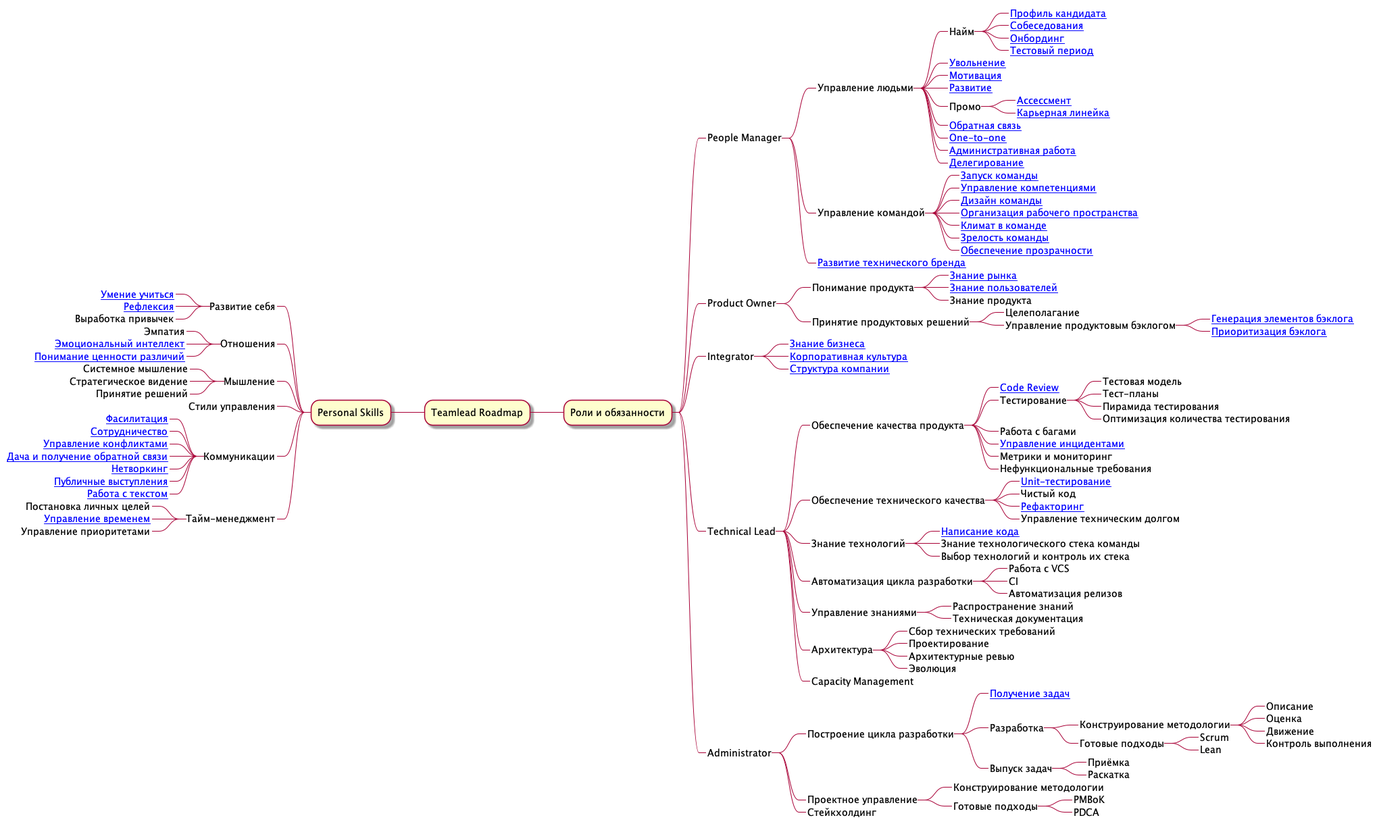
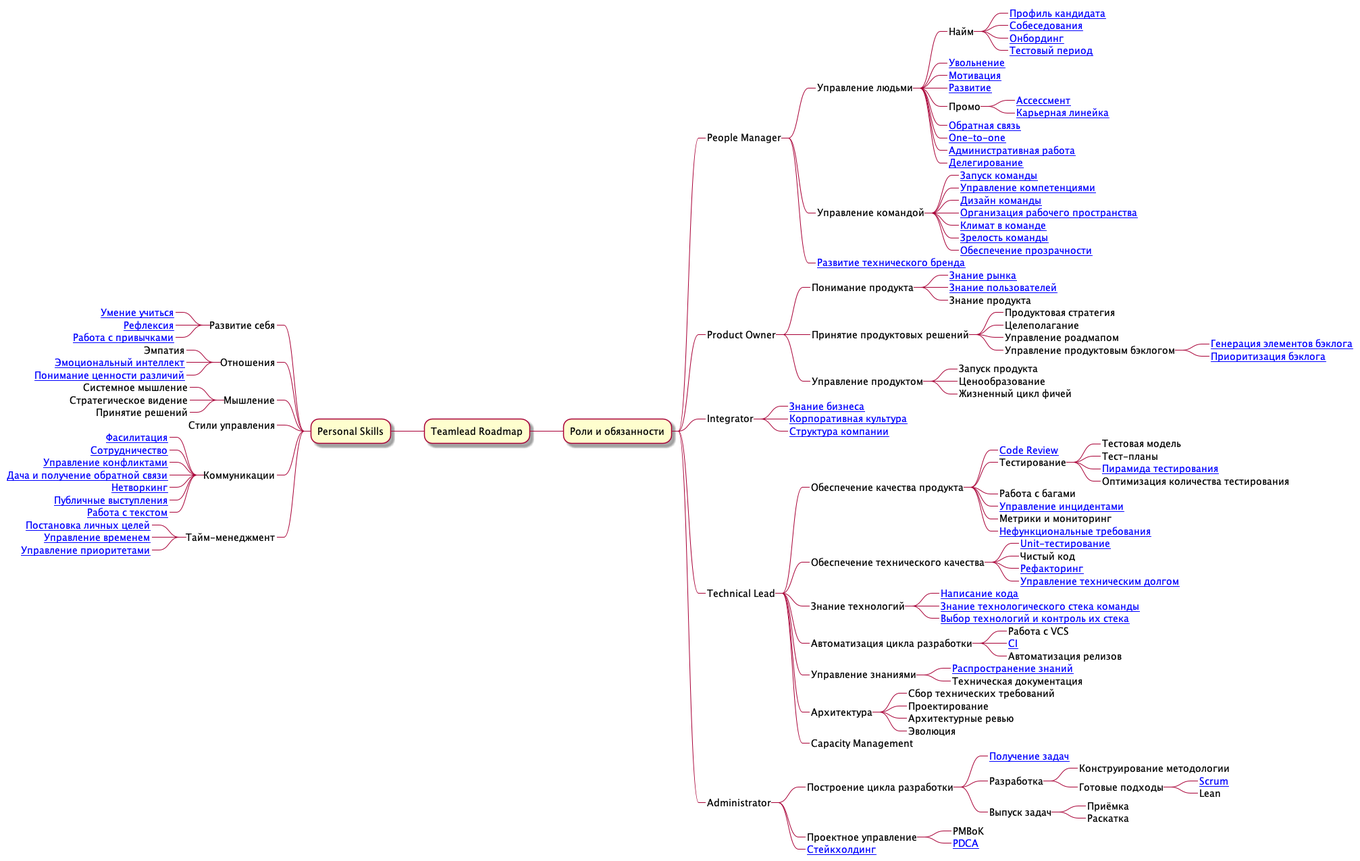
upd

Changed region(s): [[0.0, 0.0, 0.9851, 0.9967], [0.4926, 0.1557, 0.5849, 0.1869]]

diff --git a/roadmap.mm b/roadmap.mm
@@ -1,5 +1,1 @@
-<<<<<<< HEAD
-<map version="1.0.1"><node CREATED="1578237054.588795" MODIFIED="1578237054.588795" STYLE="bubble" TEXT="Teamlead Roadmap"><node CREATED="1578237054.588795" MODIFIED="1578237054.588795" POSITION="left" STYLE="fork" TEXT="Развитие себя"><node CREATED="1578237054.588795" LINK="https://github.com/tlbootcamp/tlroadmap/blob/master/skills/self-improvement/learning.md" MODIFIED="1578237054.588795" STYLE="fork" TEXT="Умение учиться" /><node CREATED="1578237054.588795" LINK="https://github.com/tlbootcamp/tlroadmap/blob/master/skills/self-improvement/reflection.md" MODIFIED="1578237054.588795" STYLE="fork" TEXT="Рефлексия" /><node CREATED="1578237054.588795" MODIFIED="1578237054.588795" STYLE="fork" TEXT="Выработка привычек" /></node><node CREATED="1578237054.588795" MODIFIED="1578237054.588795" POSITION="left" STYLE="fork" TEXT="Отношения"><node CREATED="1578237054.588795" MODIFIED="1578237054.588795" STYLE="fork" TEXT="Эмпатия" /><node CREATED="1578237054.588795" LINK="https://github.com/tlbootcamp/tlroadmap/blob/master/skills/self-improvement/emotional-intelligence.md" MODIFIED="1578237054.588795" STYLE="fork" TEXT="Эмоциональный интеллект" /><node CREATED="1578237054.588795" LINK="https://github.com/tlbootcamp/tlroadmap/blob/master/skills/self-improvement/diversity.md" MODIFIED="1578237054.588795" STYLE="fork" TEXT="Понимание ценности различий" /></node><node CREATED="1578237054.588795" MODIFIED="1578237054.588795" POSITION="left" STYLE="fork" TEXT="Мышление"><node CREATED="1578237054.588795" MODIFIED="1578237054.588795" STYLE="fork" TEXT="Системное мышление" /><node CREATED="1578237054.588795" MODIFIED="1578237054.588795" STYLE="fork" TEXT="Стратегическое видение" /><node CREATED="1578237054.588795" MODIFIED="1578237054.588795" STYLE="fork" TEXT="Принятие решений" /></node><node CREATED="1578237054.588795" MODIFIED="1578237054.588795" POSITION="left" STYLE="fork" TEXT="Стили управления" /><node CREATED="1578237054.588795" MODIFIED="1578237054.588795" POSITION="left" STYLE="fork" TEXT="Коммуникации"><node CREATED="1578237054.588795" LINK="https://github.com/tlbootcamp/tlroadmap/blob/master/skills/self-improvement/facilitation.md" MODIFIED="1578237054.588795" STYLE="fork" TEXT="Фасилитация" /><node CREATED="1578237054.588795" LINK="https://github.com/tlbootcamp/tlroadmap/blob/master/skills/self-improvement/cooperation.md" MODIFIED="1578237054.588795" STYLE="fork" TEXT="Сотрудничество" /><node CREATED="1578237054.588795" LINK="https://github.com/tlbootcamp/tlroadmap/blob/master/skills/self-improvement/conflicts.md" MODIFIED="1578237054.588795" STYLE="fork" TEXT="Управление конфликтами" /><node CREATED="1578237054.588795" LINK="https://github.com/tlbootcamp/tlroadmap/blob/master/skills/self-improvement/feedback.md" MODIFIED="1578237054.588795" STYLE="fork" TEXT="Дача и получение обратной связи" /><node CREATED="1578237054.588795" LINK="https://github.com/tlbootcamp/tlroadmap/blob/master/skills/self-improvement/networking.md" MODIFIED="1578237054.588795" STYLE="fork" TEXT="Нетворкинг" /><node CREATED="1578237054.588795" LINK="https://github.com/tlbootcamp/tlroadmap/blob/master/skills/self-improvement/public-speaking.md" MODIFIED="1578237054.588795" STYLE="fork" TEXT="Публичные выступления" /><node CREATED="1578237054.588795" LINK="https://github.com/tlbootcamp/tlroadmap/blob/master/skills/self-improvement/text.md" MODIFIED="1578237054.588795" STYLE="fork" TEXT="Работа с текстом" /></node><node CREATED="1578237054.588795" MODIFIED="1578237054.588795" POSITION="left" STYLE="fork" TEXT="Тайм-менеджмент"><node CREATED="1578237054.588795" MODIFIED="1578237054.588795" STYLE="fork" TEXT="Постановка личных целей" /><node CREATED="1578237054.588795" LINK="https://github.com/tlbootcamp/tlroadmap/blob/master/skills/self-improvement/time-management.md" MODIFIED="1578237054.588795" STYLE="fork" TEXT="Управление временем" /><node CREATED="1578237054.588795" MODIFIED="1578237054.588795" STYLE="fork" TEXT="Управление приоритетами" /></node><node CREATED="1578237054.588795" MODIFIED="1578237054.588795" POSITION="right" STYLE="fork" TEXT="People Manager"><node CREATED="1578237054.588795" MODIFIED="1578237054.588795" STYLE="fork" TEXT="Управление людьми"><node CREATED="1578237054.588795" MODIFIED="1578237054.588795" STYLE="fork" TEXT="Найм"><node CREATED="1578237054.588795" LINK="https://github.com/tlbootcamp/tlroadmap/blob/master/skills/resource-manager/profile.md" MODIFIED="1578237054.588795" STYLE="fork" TEXT="Профиль кандидата" /><node CREATED="1578237054.588795" LINK="https://github.com/tlbootcamp/tlroadmap/blob/master/skills/resource-manager/interview.md" MODIFIED="1578237054.588795" STYLE="fork" TEXT="Собеседования" /><node CREATED="1578237054.588795" LINK="https://github.com/tlbootcamp/tlroadmap/blob/master/skills/resource-manager/onboarding.md" MODIFIED="1578237054.588795" STYLE="fork" TEXT="Онбординг" /><node CREATED="1578237054.588795" LINK="https://github.com/tlbootcamp/tlroadmap/blob/master/skills/resource-manager/test-period.md" MODIFIED="1578237054.588795" STYLE="fork" TEXT="Тестовый период" /></node><node CREATED="1578237054.588795" LINK="https://github.com/tlbootcamp/tlroadmap/blob/master/skills/resource-manager/firing.md" MODIFIED="1578237054.588795" STYLE="fork" TEXT="Увольнение" /><node CREATED="1578237054.588795" LINK="https://github.com/tlbootcamp/tlroadmap/blob/master/skills/resource-manager/motivation.md" MODIFIED="1578237054.588795" STYLE="fork" TEXT="Мотивация" /><node CREATED="1578237054.588795" LINK="https://github.com/tlbootcamp/tlroadmap/blob/master/skills/resource-manager/development.md" MODIFIED="1578237054.588795" STYLE="fork" TEXT="Развитие" /><node CREATED="1578237054.588795" MODIFIED="1578237054.588795" STYLE="fork" TEXT="Промо"><node CREATED="1578237054.588795" LINK="https://github.com/tlbootcamp/tlroadmap/blob/master/skills/resource-manager/assessment.md" MODIFIED="1578237054.588795" STYLE="fork" TEXT="Ассессмент" /><node CREATED="1578237054.588795" LINK="https://github.com/tlbootcamp/tlroadmap/blob/master/skills/resource-manager/career.md" MODIFIED="1578237054.588795" STYLE="fork" TEXT="Карьерная линейка" /></node><node CREATED="1578237054.588795" LINK="https://github.com/tlbootcamp/tlroadmap/blob/master/skills/resource-manager/feedback.md" MODIFIED="1578237054.588795" STYLE="fork" TEXT="Обратная связь" /><node CREATED="1578237054.588795" LINK="https://github.com/tlbootcamp/tlroadmap/blob/master/skills/resource-manager/one-to-one.md" MODIFIED="1578237054.588795" STYLE="fork" TEXT="One-to-one" /><node CREATED="1578237054.588795" LINK="https://github.com/tlbootcamp/tlroadmap/blob/master/skills/resource-manager/admin.md" MODIFIED="1578237054.588795" STYLE="fork" TEXT="Административная работа" /><node CREATED="1578237054.588795" LINK="https://github.com/tlbootcamp/tlroadmap/blob/master/skills/resource-manager/delegation.md" MODIFIED="1578237054.588795" STYLE="fork" TEXT="Делегирование" /></node><node CREATED="1578237054.588795" MODIFIED="1578237054.588795" STYLE="fork" TEXT="Управление командой"><node CREATED="1578237054.588795" LINK="https://github.com/tlbootcamp/tlroadmap/blob/master/skills/resource-manager/team-launch.md" MODIFIED="1578237054.588795" STYLE="fork" TEXT="Запуск команды" /><node CREATED="1578237054.588795" LINK="https://github.com/tlbootcamp/tlroadmap/blob/master/skills/resource-manager/competency-management.md" MODIFIED="1578237054.588795" STYLE="fork" TEXT="Управление компетенциями" /><node CREATED="1578237054.588795" LINK="https://github.com/tlbootcamp/tlroadmap/blob/master/skills/resource-manager/team-design.md" MODIFIED="1578237054.588795" STYLE="fork" TEXT="Дизайн команды" /><node CREATED="1578237054.588795" LINK="https://github.com/tlbootcamp/tlroadmap/blob/master/skills/resource-manager/workspace.md" MODIFIED="1578237054.588795" STYLE="fork" TEXT="Организация рабочего пространства" /><node CREATED="1578237054.588795" LINK="https://github.com/tlbootcamp/tlroadmap/blob/master/skills/resource-manager/team-climate.md" MODIFIED="1578237054.588795" STYLE="fork" TEXT="Климат в команде" /><node CREATED="1578237054.588795" LINK="https://github.com/tlbootcamp/tlroadmap/blob/master/skills/resource-manager/team-maturity.md" MODIFIED="1578237054.588795" STYLE="fork" TEXT="Зрелость команды" /><node CREATED="1578237054.588795" LINK="https://github.com/tlbootcamp/tlroadmap/blob/master/skills/resource-manager/transparency.md" MODIFIED="1578237054.588795" STYLE="fork" TEXT="Обеспечение прозрачности" /></node><node CREATED="1578237054.588795" LINK="https://github.com/tlbootcamp/tlroadmap/blob/master/skills/resource-manager/techpr.md" MODIFIED="1578237054.588795" STYLE="fork" TEXT="Развитие технического бренда" /></node><node CREATED="1578237054.588795" MODIFIED="1578237054.588795" POSITION="right" STYLE="fork" TEXT="Product Owner"><node CREATED="1578237054.588795" MODIFIED="1578237054.588795" STYLE="fork" TEXT="Понимание продукта"><node CREATED="1578237054.588795" LINK="https://github.com/tlbootcamp/tlroadmap/blob/master/skills/product-owner/market-knowledge.md" MODIFIED="1578237054.588795" STYLE="fork" TEXT="Знание рынка" /><node CREATED="1578237054.588795" LINK="https://github.com/tlbootcamp/tlroadmap/blob/master/skills/product-owner/user-knowledge.md" MODIFIED="1578237054.588795" STYLE="fork" TEXT="Знание пользователей" /><node CREATED="1578237054.588795" MODIFIED="1578237054.588795" STYLE="fork" TEXT="Знание продукта" /></node><node CREATED="1578237054.588795" MODIFIED="1578237054.588795" STYLE="fork" TEXT="Принятие продуктовых решений"><node CREATED="1578237054.588795" MODIFIED="1578237054.588795" STYLE="fork" TEXT="Целеполагание" /><node CREATED="1578237054.588795" MODIFIED="1578237054.588795" STYLE="fork" TEXT="Управление продуктовым бэклогом"><node CREATED="1578237054.588795" LINK="https://github.com/tlbootcamp/tlroadmap/blob/master/skills/product-owner/backlog-generation.md" MODIFIED="1578237054.588795" STYLE="fork" TEXT="Генерация элементов бэклога" /><node CREATED="1578237054.588795" LINK="https://github.com/tlbootcamp/tlroadmap/blob/master/skills/product-owner/backlog-prioritization.md" MODIFIED="1578237054.588795" STYLE="fork" TEXT="Приоритизация бэклога" /></node></node></node><node CREATED="1578237054.588795" MODIFIED="1578237054.588795" POSITION="right" STYLE="fork" TEXT="Integrator"><node CREATED="1578237054.588795" LINK="https://github.com/tlbootcamp/tlroadmap/blob/master/skills/integrator/business-knowledge.md" MODIFIED="1578237054.588795" STYLE="fork" TEXT="Знание бизнеса" /><node CREATED="1578237054.588795" LINK="https://github.com/tlbootcamp/tlroadmap/blob/master/skills/integrator/corporate-culture.md" MODIFIED="1578237054.588795" STYLE="fork" TEXT="Корпоративная культура" /><node CREATED="1578237054.588795" LINK="https://github.com/tlbootcamp/tlroadmap/blob/master/skills/integrator/company-structure.md" MODIFIED="1578237054.588795" STYLE="fork" TEXT="Структура компании" /></node><node CREATED="1578237054.588795" MODIFIED="1578237054.588795" POSITION="right" STYLE="fork" TEXT="Technical Lead"><node CREATED="1578237054.588795" MODIFIED="1578237054.588795" STYLE="fork" TEXT="Обеспечение качества продукта"><node CREATED="1578237054.588795" LINK="https://github.com/tlbootcamp/tlroadmap/blob/master/skills/technical-lead/code-review.md" MODIFIED="1578237054.588795" STYLE="fork" TEXT="Code Review" /><node CREATED="1578237054.588795" MODIFIED="1578237054.588795" STYLE="fork" TEXT="Тестирование"><node CREATED="1578237054.588795" MODIFIED="1578237054.588795" STYLE="fork" TEXT="Тестовая модель" /><node CREATED="1578237054.588795" MODIFIED="1578237054.588795" STYLE="fork" TEXT="Тест-планы" /><node CREATED="1578237054.588795" MODIFIED="1578237054.588795" STYLE="fork" TEXT="Пирамида тестирования" /><node CREATED="1578237054.588795" MODIFIED="1578237054.588795" STYLE="fork" TEXT="Оптимизация количества тестирования" /></node><node CREATED="1578237054.588795" MODIFIED="1578237054.588795" STYLE="fork" TEXT="Работа с багами" /><node CREATED="1578237054.588795" LINK="https://github.com/tlbootcamp/tlroadmap/blob/master/skills/technical-lead/incident-management.md" MODIFIED="1578237054.588795" STYLE="fork" TEXT="Управление инцидентами" /><node CREATED="1578237054.588795" MODIFIED="1578237054.588795" STYLE="fork" TEXT="Метрики и мониторинг" /><node CREATED="1578237054.588795" MODIFIED="1578237054.588795" STYLE="fork" TEXT="Нефункциональные требования" /></node><node CREATED="1578237054.588795" MODIFIED="1578237054.588795" STYLE="fork" TEXT="Обеспечение технического качества"><node CREATED="1578237054.588795" LINK="https://github.com/tlbootcamp/tlroadmap/blob/master/skills/technical-lead/unit-testing.md" MODIFIED="1578237054.588795" STYLE="fork" TEXT="Unit-тестирование" /><node CREATED="1578237054.588795" MODIFIED="1578237054.588795" STYLE="fork" TEXT="Чистый код" /><node CREATED="1578237054.588795" LINK="https://github.com/tlbootcamp/tlroadmap/blob/master/skills/technical-lead/refactoring.md" MODIFIED="1578237054.588795" STYLE="fork" TEXT="Рефакторинг" /><node CREATED="1578237054.588795" MODIFIED="1578237054.588795" STYLE="fork" TEXT="Управление техническим долгом" /></node><node CREATED="1578237054.588795" MODIFIED="1578237054.588795" STYLE="fork" TEXT="Знание технологий"><node CREATED="1578237054.588795" LINK="https://github.com/tlbootcamp/tlroadmap/blob/master/skills/technical-lead/code.md" MODIFIED="1578237054.588795" STYLE="fork" TEXT="Написание кода" /><node CREATED="1578237054.588795" MODIFIED="1578237054.588795" STYLE="fork" TEXT="Знание технологического стека команды" /><node CREATED="1578237054.588795" MODIFIED="1578237054.588795" STYLE="fork" TEXT="Выбор технологий и контроль их стека" /></node><node CREATED="1578237054.588795" MODIFIED="1578237054.588795" STYLE="fork" TEXT="Автоматизация цикла разработки"><node CREATED="1578237054.588795" MODIFIED="1578237054.588795" STYLE="fork" TEXT="Работа с VCS" /><node CREATED="1578237054.588795" MODIFIED="1578237054.588795" STYLE="fork" TEXT="CI" /><node CREATED="1578237054.588795" MODIFIED="1578237054.588795" STYLE="fork" TEXT="Автоматизация релизов" /></node><node CREATED="1578237054.588795" MODIFIED="1578237054.588795" STYLE="fork" TEXT="Управление знаниями"><node CREATED="1578237054.588795" MODIFIED="1578237054.588795" STYLE="fork" TEXT="Распространение знаний" /><node CREATED="1578237054.588795" MODIFIED="1578237054.588795" STYLE="fork" TEXT="Техническая документация" /></node><node CREATED="1578237054.588795" MODIFIED="1578237054.588795" STYLE="fork" TEXT="Архитектура"><node CREATED="1578237054.588795" MODIFIED="1578237054.588795" STYLE="fork" TEXT="Сбор технических требований" /><node CREATED="1578237054.588795" MODIFIED="1578237054.588795" STYLE="fork" TEXT="Проектирование" /><node CREATED="1578237054.588795" MODIFIED="1578237054.588795" STYLE="fork" TEXT="Архитектурные ревью" /><node CREATED="1578237054.588795" MODIFIED="1578237054.588795" STYLE="fork" TEXT="Эволюция" /></node><node CREATED="1578237054.588795" MODIFIED="1578237054.588795" STYLE="fork" TEXT="Capacity Management" /></node><node CREATED="1578237054.588795" MODIFIED="1578237054.588795" POSITION="right" STYLE="fork" TEXT="Administrator"><node CREATED="1578237054.588795" MODIFIED="1578237054.588795" STYLE="fork" TEXT="Построение цикла разработки"><node CREATED="1578237054.588795" LINK="https://github.com/tlbootcamp/tlroadmap/blob/master/skills/administrator/task-inbox.md" MODIFIED="1578237054.588795" STYLE="fork" TEXT="Получение задач" /><node CREATED="1578237054.588795" MODIFIED="1578237054.588795" STYLE="fork" TEXT="Разработка"><node CREATED="1578237054.588795" MODIFIED="1578237054.588795" STYLE="fork" TEXT="Конструирование методологии"><node CREATED="1578237054.588795" MODIFIED="1578237054.588795" STYLE="fork" TEXT="Описание" /><node CREATED="1578237054.588795" MODIFIED="1578237054.588795" STYLE="fork" TEXT="Оценка" /><node CREATED="1578237054.588795" MODIFIED="1578237054.588795" STYLE="fork" TEXT="Движение" /><node CREATED="1578237054.588795" MODIFIED="1578237054.588795" STYLE="fork" TEXT="Контроль выполнения" /></node><node CREATED="1578237054.588795" MODIFIED="1578237054.588795" STYLE="fork" TEXT="Готовые подходы"><node CREATED="1578237054.588795" MODIFIED="1578237054.588795" STYLE="fork" TEXT="Scrum" /><node CREATED="1578237054.588795" MODIFIED="1578237054.588795" STYLE="fork" TEXT="Lean" /></node></node><node CREATED="1578237054.588795" MODIFIED="1578237054.588795" STYLE="fork" TEXT="Выпуск задач"><node CREATED="1578237054.588795" MODIFIED="1578237054.588795" STYLE="fork" TEXT="Приёмка" /><node CREATED="1578237054.588795" MODIFIED="1578237054.588795" STYLE="fork" TEXT="Раскатка" /></node></node><node CREATED="1578237054.588795" MODIFIED="1578237054.588795" STYLE="fork" TEXT="Проектное управление"><node CREATED="1578237054.588795" MODIFIED="1578237054.588795" STYLE="fork" TEXT="Конструирование методологии" /><node CREATED="1578237054.588795" MODIFIED="1578237054.588795" STYLE="fork" TEXT="Готовые подходы"><node CREATED="1578237054.588795" MODIFIED="1578237054.588795" STYLE="fork" TEXT="PMBoK" /><node CREATED="1578237054.588795" MODIFIED="1578237054.588795" STYLE="fork" TEXT="PDCA" /></node></node><node CREATED="1578237054.588795" MODIFIED="1578237054.588795" STYLE="fork" TEXT="Стейкхолдинг" /></node></node></map>
-=======
-<map version="1.0.1"><node STYLE="bubble" TEXT="Teamlead Roadmap"><node POSITION="left" STYLE="fork" TEXT="Развитие себя"><node LINK="https://github.com/tlbootcamp/tlroadmap/blob/master/skills/self-improvement/learning.md" STYLE="fork" TEXT="Умение учиться" /><node LINK="https://github.com/tlbootcamp/tlroadmap/blob/master/skills/self-improvement/reflection.md" STYLE="fork" TEXT="Рефлексия" /><node LINK="https://github.com/tlbootcamp/tlroadmap/blob/master/skills/self-improvement/habits.md" STYLE="fork" TEXT="Работа с привычками" /></node><node POSITION="left" STYLE="fork" TEXT="Отношения"><node STYLE="fork" TEXT="Эмпатия" /><node LINK="https://github.com/tlbootcamp/tlroadmap/blob/master/skills/self-improvement/emotional-intelligence.md" STYLE="fork" TEXT="Эмоциональный интеллект" /><node LINK="https://github.com/tlbootcamp/tlroadmap/blob/master/skills/self-improvement/diversity.md" STYLE="fork" TEXT="Понимание ценности различий" /></node><node POSITION="left" STYLE="fork" TEXT="Мышление"><node STYLE="fork" TEXT="Системное мышление" /><node STYLE="fork" TEXT="Стратегическое видение" /><node STYLE="fork" TEXT="Принятие решений" /></node><node POSITION="left" STYLE="fork" TEXT="Стили управления" /><node POSITION="left" STYLE="fork" TEXT="Коммуникации"><node LINK="https://github.com/tlbootcamp/tlroadmap/blob/master/skills/self-improvement/facilitation.md" STYLE="fork" TEXT="Фасилитация" /><node LINK="https://github.com/tlbootcamp/tlroadmap/blob/master/skills/self-improvement/cooperation.md" STYLE="fork" TEXT="Сотрудничество" /><node LINK="https://github.com/tlbootcamp/tlroadmap/blob/master/skills/self-improvement/conflicts.md" STYLE="fork" TEXT="Управление конфликтами" /><node LINK="https://github.com/tlbootcamp/tlroadmap/blob/master/skills/self-improvement/feedback.md" STYLE="fork" TEXT="Дача и получение обратной связи" /><node LINK="https://github.com/tlbootcamp/tlroadmap/blob/master/skills/self-improvement/networking.md" STYLE="fork" TEXT="Нетворкинг" /><node LINK="https://github.com/tlbootcamp/tlroadmap/blob/master/skills/self-improvement/public-speaking.md" STYLE="fork" TEXT="Публичные выступления" /><node LINK="https://github.com/tlbootcamp/tlroadmap/blob/master/skills/self-improvement/text.md" STYLE="fork" TEXT="Работа с текстом" /></node><node POSITION="left" STYLE="fork" TEXT="Тайм-менеджмент"><node LINK="https://github.com/tlbootcamp/tlroadmap/blob/master/skills/self-improvement/goal-setting.md" STYLE="fork" TEXT="Постановка личных целей" /><node LINK="https://github.com/tlbootcamp/tlroadmap/blob/master/skills/self-improvement/time-management.md" STYLE="fork" TEXT="Управление временем" /><node LINK="https://github.com/tlbootcamp/tlroadmap/blob/master/skills/self-improvement/prioritization.md" STYLE="fork" TEXT="Управление приоритетами" /></node><node POSITION="right" STYLE="fork" TEXT="People Manager"><node STYLE="fork" TEXT="Управление людьми"><node STYLE="fork" TEXT="Найм"><node LINK="https://github.com/tlbootcamp/tlroadmap/blob/master/skills/resource-manager/profile.md" STYLE="fork" TEXT="Профиль кандидата" /><node LINK="https://github.com/tlbootcamp/tlroadmap/blob/master/skills/resource-manager/interview.md" STYLE="fork" TEXT="Собеседования" /><node LINK="https://github.com/tlbootcamp/tlroadmap/blob/master/skills/resource-manager/onboarding.md" STYLE="fork" TEXT="Онбординг" /><node LINK="https://github.com/tlbootcamp/tlroadmap/blob/master/skills/resource-manager/test-period.md" STYLE="fork" TEXT="Тестовый период" /></node><node LINK="https://github.com/tlbootcamp/tlroadmap/blob/master/skills/resource-manager/firing.md" STYLE="fork" TEXT="Увольнение" /><node LINK="https://github.com/tlbootcamp/tlroadmap/blob/master/skills/resource-manager/motivation.md" STYLE="fork" TEXT="Мотивация" /><node LINK="https://github.com/tlbootcamp/tlroadmap/blob/master/skills/resource-manager/development.md" STYLE="fork" TEXT="Развитие" /><node STYLE="fork" TEXT="Промо"><node LINK="https://github.com/tlbootcamp/tlroadmap/blob/master/skills/resource-manager/assessment.md" STYLE="fork" TEXT="Ассессмент" /><node LINK="https://github.com/tlbootcamp/tlroadmap/blob/master/skills/resource-manager/career.md" STYLE="fork" TEXT="Карьерная линейка" /></node><node LINK="https://github.com/tlbootcamp/tlroadmap/blob/master/skills/resource-manager/feedback.md" STYLE="fork" TEXT="Обратная связь" /><node LINK="https://github.com/tlbootcamp/tlroadmap/blob/master/skills/resource-manager/one-to-one.md" STYLE="fork" TEXT="One-to-one" /><node LINK="https://github.com/tlbootcamp/tlroadmap/blob/master/skills/resource-manager/admin.md" STYLE="fork" TEXT="Административная работа" /><node LINK="https://github.com/tlbootcamp/tlroadmap/blob/master/skills/resource-manager/delegation.md" STYLE="fork" TEXT="Делегирование" /></node><node STYLE="fork" TEXT="Управление командой"><node LINK="https://github.com/tlbootcamp/tlroadmap/blob/master/skills/resource-manager/team-launch.md" STYLE="fork" TEXT="Запуск команды" /><node LINK="https://github.com/tlbootcamp/tlroadmap/blob/master/skills/resource-manager/competency-management.md" STYLE="fork" TEXT="Управление компетенциями" /><node LINK="https://github.com/tlbootcamp/tlroadmap/blob/master/skills/resource-manager/team-design.md" STYLE="fork" TEXT="Дизайн команды" /><node LINK="https://github.com/tlbootcamp/tlroadmap/blob/master/skills/resource-manager/workspace.md" STYLE="fork" TEXT="Организация рабочего пространства" /><node LINK="https://github.com/tlbootcamp/tlroadmap/blob/master/skills/resource-manager/team-climate.md" STYLE="fork" TEXT="Климат в команде" /><node LINK="https://github.com/tlbootcamp/tlroadmap/blob/master/skills/resource-manager/team-maturity.md" STYLE="fork" TEXT="Зрелость команды" /><node LINK="https://github.com/tlbootcamp/tlroadmap/blob/master/skills/resource-manager/transparency.md" STYLE="fork" TEXT="Обеспечение прозрачности" /></node><node LINK="https://github.com/tlbootcamp/tlroadmap/blob/master/skills/resource-manager/techpr.md" STYLE="fork" TEXT="Развитие технического бренда" /></node><node POSITION="right" STYLE="fork" TEXT="Product Owner"><node STYLE="fork" TEXT="Понимание продукта"><node LINK="https://github.com/tlbootcamp/tlroadmap/blob/master/skills/product-owner/market-knowledge.md" STYLE="fork" TEXT="Знание рынка" /><node LINK="https://github.com/tlbootcamp/tlroadmap/blob/master/skills/product-owner/user-knowledge.md" STYLE="fork" TEXT="Знание пользователей" /><node STYLE="fork" TEXT="Знание продукта" /></node><node STYLE="fork" TEXT="Принятие продуктовых решений"><node STYLE="fork" TEXT="Продуктовая стратегия" /><node STYLE="fork" TEXT="Целеполагание" /><node STYLE="fork" TEXT="Управление роадмапом" /><node STYLE="fork" TEXT="Управление продуктовым бэклогом"><node LINK="https://github.com/tlbootcamp/tlroadmap/blob/master/skills/product-owner/backlog-generation.md" STYLE="fork" TEXT="Генерация элементов бэклога" /><node LINK="https://github.com/tlbootcamp/tlroadmap/blob/master/skills/product-owner/backlog-prioritization.md" STYLE="fork" TEXT="Приоритизация бэклога" /></node></node><node STYLE="fork" TEXT="Управление продуктом"><node STYLE="fork" TEXT="Запуск продукта" /><node STYLE="fork" TEXT="Ценообразование" /><node STYLE="fork" TEXT="Жизненный цикл фичей" /></node></node><node POSITION="right" STYLE="fork" TEXT="Integrator"><node LINK="https://github.com/tlbootcamp/tlroadmap/blob/master/skills/integrator/business-knowledge.md" STYLE="fork" TEXT="Знание бизнеса" /><node LINK="https://github.com/tlbootcamp/tlroadmap/blob/master/skills/integrator/corporate-culture.md" STYLE="fork" TEXT="Корпоративная культура" /><node LINK="https://github.com/tlbootcamp/tlroadmap/blob/master/skills/integrator/company-structure.md" STYLE="fork" TEXT="Структура компании" /></node><node POSITION="right" STYLE="fork" TEXT="Technical Lead"><node STYLE="fork" TEXT="Обеспечение качества продукта"><node LINK="https://github.com/tlbootcamp/tlroadmap/blob/master/skills/technical-lead/code-review.md" STYLE="fork" TEXT="Code Review" /><node STYLE="fork" TEXT="Тестирование"><node STYLE="fork" TEXT="Тестовая модель" /><node STYLE="fork" TEXT="Тест-планы" /><node STYLE="fork" TEXT="Пирамида тестирования" /><node STYLE="fork" TEXT="Оптимизация количества тестирования" /></node><node STYLE="fork" TEXT="Работа с багами" /><node LINK="https://github.com/tlbootcamp/tlroadmap/blob/master/skills/technical-lead/incident-management.md" STYLE="fork" TEXT="Управление инцидентами" /><node STYLE="fork" TEXT="Метрики и мониторинг" /><node LINK="https://github.com/tlbootcamp/tlroadmap/blob/master/skills/technical-lead/nfr.md" STYLE="fork" TEXT="Нефункциональные требования" /></node><node STYLE="fork" TEXT="Обеспечение технического качества"><node LINK="https://github.com/tlbootcamp/tlroadmap/blob/master/skills/technical-lead/unit-testing.md" STYLE="fork" TEXT="Unit-тестирование" /><node STYLE="fork" TEXT="Чистый код" /><node LINK="https://github.com/tlbootcamp/tlroadmap/blob/master/skills/technical-lead/refactoring.md" STYLE="fork" TEXT="Рефакторинг" /><node LINK="https://github.com/tlbootcamp/tlroadmap/blob/master/skills/technical-lead/technical-debt.md" STYLE="fork" TEXT="Управление техническим долгом" /></node><node STYLE="fork" TEXT="Знание технологий"><node LINK="https://github.com/tlbootcamp/tlroadmap/blob/master/skills/technical-lead/code.md" STYLE="fork" TEXT="Написание кода" /><node LINK="https://github.com/tlbootcamp/tlroadmap/blob/master/skills/technical-lead/stack-knowledge.md" STYLE="fork" TEXT="Знание технологического стека команды" /><node LINK="https://github.com/tlbootcamp/tlroadmap/blob/master/skills/technical-lead/stack-choice.md" STYLE="fork" TEXT="Выбор технологий и контроль их стека" /></node><node STYLE="fork" TEXT="Автоматизация цикла разработки"><node STYLE="fork" TEXT="Работа с VCS" /><node LINK="https://github.com/tlbootcamp/tlroadmap/blob/master/skills/technical-lead/ci.md" STYLE="fork" TEXT="CI" /><node STYLE="fork" TEXT="Автоматизация релизов" /></node><node STYLE="fork" TEXT="Управление знаниями"><node LINK="https://github.com/tlbootcamp/tlroadmap/blob/master/skills/technical-lead/knowledge-management.md" STYLE="fork" TEXT="Распространение знаний" /><node STYLE="fork" TEXT="Техническая документация" /></node><node STYLE="fork" TEXT="Архитектура"><node STYLE="fork" TEXT="Сбор технических требований" /><node STYLE="fork" TEXT="Проектирование" /><node STYLE="fork" TEXT="Архитектурные ревью" /><node STYLE="fork" TEXT="Эволюция" /></node><node STYLE="fork" TEXT="Capacity Management" /></node><node POSITION="right" STYLE="fork" TEXT="Administrator"><node STYLE="fork" TEXT="Построение цикла разработки"><node LINK="https://github.com/tlbootcamp/tlroadmap/blob/master/skills/administrator/task-inbox.md" STYLE="fork" TEXT="Получение задач" /><node STYLE="fork" TEXT="Разработка"><node STYLE="fork" TEXT="Конструирование методологии" /><node STYLE="fork" TEXT="Готовые подходы"><node LINK="https://github.com/tlbootcamp/tlroadmap/blob/master/skills/administrator/scrum.md" STYLE="fork" TEXT="Scrum" /><node STYLE="fork" TEXT="Lean" /></node></node><node STYLE="fork" TEXT="Выпуск задач"><node STYLE="fork" TEXT="Приёмка" /><node STYLE="fork" TEXT="Раскатка" /></node></node><node STYLE="fork" TEXT="Проектное управление"><node STYLE="fork" TEXT="PMBoK" /><node LINK="https://github.com/tlbootcamp/tlroadmap/blob/master/skills/administrator/pdca.md" STYLE="fork" TEXT="PDCA" /></node><node LINK="https://github.com/tlbootcamp/tlroadmap/blob/master/skills/administrator/stakeholding.md" STYLE="fork" TEXT="Стейкхолдинг" /></node></node></map>
->>>>>>> upstream/master
+<map version="1.0.1"><node STYLE="bubble" TEXT="Teamlead Roadmap"><node POSITION="left" STYLE="fork" TEXT="Развитие себя"><node LINK="https://github.com/tlbootcamp/tlroadmap/blob/master/skills/self-improvement/learning.md" STYLE="fork" TEXT="Умение учиться" /><node LINK="https://github.com/tlbootcamp/tlroadmap/blob/master/skills/self-improvement/reflection.md" STYLE="fork" TEXT="Рефлексия" /><node LINK="https://github.com/tlbootcamp/tlroadmap/blob/master/skills/self-improvement/habits.md" STYLE="fork" TEXT="Работа с привычками" /></node><node POSITION="left" STYLE="fork" TEXT="Отношения"><node STYLE="fork" TEXT="Эмпатия" /><node LINK="https://github.com/tlbootcamp/tlroadmap/blob/master/skills/self-improvement/emotional-intelligence.md" STYLE="fork" TEXT="Эмоциональный интеллект" /><node LINK="https://github.com/tlbootcamp/tlroadmap/blob/master/skills/self-improvement/diversity.md" STYLE="fork" TEXT="Понимание ценности различий" /></node><node POSITION="left" STYLE="fork" TEXT="Мышление"><node STYLE="fork" TEXT="Системное мышление" /><node STYLE="fork" TEXT="Стратегическое видение" /><node STYLE="fork" TEXT="Принятие решений" /></node><node POSITION="left" STYLE="fork" TEXT="Стили управления" /><node POSITION="left" STYLE="fork" TEXT="Коммуникации"><node LINK="https://github.com/tlbootcamp/tlroadmap/blob/master/skills/self-improvement/facilitation.md" STYLE="fork" TEXT="Фасилитация" /><node LINK="https://github.com/tlbootcamp/tlroadmap/blob/master/skills/self-improvement/cooperation.md" STYLE="fork" TEXT="Сотрудничество" /><node LINK="https://github.com/tlbootcamp/tlroadmap/blob/master/skills/self-improvement/conflicts.md" STYLE="fork" TEXT="Управление конфликтами" /><node LINK="https://github.com/tlbootcamp/tlroadmap/blob/master/skills/self-improvement/feedback.md" STYLE="fork" TEXT="Дача и получение обратной связи" /><node LINK="https://github.com/tlbootcamp/tlroadmap/blob/master/skills/self-improvement/networking.md" STYLE="fork" TEXT="Нетворкинг" /><node LINK="https://github.com/tlbootcamp/tlroadmap/blob/master/skills/self-improvement/public-speaking.md" STYLE="fork" TEXT="Публичные выступления" /><node LINK="https://github.com/tlbootcamp/tlroadmap/blob/master/skills/self-improvement/text.md" STYLE="fork" TEXT="Работа с текстом" /></node><node POSITION="left" STYLE="fork" TEXT="Тайм-менеджмент"><node LINK="https://github.com/tlbootcamp/tlroadmap/blob/master/skills/self-improvement/goal-setting.md" STYLE="fork" TEXT="Постановка личных целей" /><node LINK="https://github.com/tlbootcamp/tlroadmap/blob/master/skills/self-improvement/time-management.md" STYLE="fork" TEXT="Управление временем" /><node LINK="https://github.com/tlbootcamp/tlroadmap/blob/master/skills/self-improvement/prioritization.md" STYLE="fork" TEXT="Управление приоритетами" /></node><node POSITION="right" STYLE="fork" TEXT="People Manager"><node STYLE="fork" TEXT="Управление людьми"><node STYLE="fork" TEXT="Найм"><node LINK="https://github.com/tlbootcamp/tlroadmap/blob/master/skills/resource-manager/profile.md" STYLE="fork" TEXT="Профиль кандидата" /><node LINK="https://github.com/tlbootcamp/tlroadmap/blob/master/skills/resource-manager/interview.md" STYLE="fork" TEXT="Собеседования" /><node LINK="https://github.com/tlbootcamp/tlroadmap/blob/master/skills/resource-manager/onboarding.md" STYLE="fork" TEXT="Онбординг" /><node LINK="https://github.com/tlbootcamp/tlroadmap/blob/master/skills/resource-manager/test-period.md" STYLE="fork" TEXT="Тестовый период" /></node><node LINK="https://github.com/tlbootcamp/tlroadmap/blob/master/skills/resource-manager/firing.md" STYLE="fork" TEXT="Увольнение" /><node LINK="https://github.com/tlbootcamp/tlroadmap/blob/master/skills/resource-manager/motivation.md" STYLE="fork" TEXT="Мотивация" /><node LINK="https://github.com/tlbootcamp/tlroadmap/blob/master/skills/resource-manager/development.md" STYLE="fork" TEXT="Развитие" /><node STYLE="fork" TEXT="Промо"><node LINK="https://github.com/tlbootcamp/tlroadmap/blob/master/skills/resource-manager/assessment.md" STYLE="fork" TEXT="Ассессмент" /><node LINK="https://github.com/tlbootcamp/tlroadmap/blob/master/skills/resource-manager/career.md" STYLE="fork" TEXT="Карьерная линейка" /></node><node LINK="https://github.com/tlbootcamp/tlroadmap/blob/master/skills/resource-manager/feedback.md" STYLE="fork" TEXT="Обратная связь" /><node LINK="https://github.com/tlbootcamp/tlroadmap/blob/master/skills/resource-manager/one-to-one.md" STYLE="fork" TEXT="One-to-one" /><node LINK="https://github.com/tlbootcamp/tlroadmap/blob/master/skills/resource-manager/admin.md" STYLE="fork" TEXT="Административная работа" /><node LINK="https://github.com/tlbootcamp/tlroadmap/blob/master/skills/resource-manager/delegation.md" STYLE="fork" TEXT="Делегирование" /></node><node STYLE="fork" TEXT="Управление командой"><node LINK="https://github.com/tlbootcamp/tlroadmap/blob/master/skills/resource-manager/team-launch.md" STYLE="fork" TEXT="Запуск команды" /><node LINK="https://github.com/tlbootcamp/tlroadmap/blob/master/skills/resource-manager/competency-management.md" STYLE="fork" TEXT="Управление компетенциями" /><node LINK="https://github.com/tlbootcamp/tlroadmap/blob/master/skills/resource-manager/team-design.md" STYLE="fork" TEXT="Дизайн команды" /><node LINK="https://github.com/tlbootcamp/tlroadmap/blob/master/skills/resource-manager/workspace.md" STYLE="fork" TEXT="Организация рабочего пространства" /><node LINK="https://github.com/tlbootcamp/tlroadmap/blob/master/skills/resource-manager/team-climate.md" STYLE="fork" TEXT="Климат в команде" /><node LINK="https://github.com/tlbootcamp/tlroadmap/blob/master/skills/resource-manager/team-maturity.md" STYLE="fork" TEXT="Зрелость команды" /><node LINK="https://github.com/tlbootcamp/tlroadmap/blob/master/skills/resource-manager/transparency.md" STYLE="fork" TEXT="Обеспечение прозрачности" /></node><node LINK="https://github.com/tlbootcamp/tlroadmap/blob/master/skills/resource-manager/techpr.md" STYLE="fork" TEXT="Развитие технического бренда" /></node><node POSITION="right" STYLE="fork" TEXT="Product Owner"><node STYLE="fork" TEXT="Понимание продукта"><node LINK="https://github.com/tlbootcamp/tlroadmap/blob/master/skills/product-owner/market-knowledge.md" STYLE="fork" TEXT="Знание рынка" /><node LINK="https://github.com/tlbootcamp/tlroadmap/blob/master/skills/product-owner/user-knowledge.md" STYLE="fork" TEXT="Знание пользователей" /><node STYLE="fork" TEXT="Знание продукта" /></node><node STYLE="fork" TEXT="Принятие продуктовых решений"><node STYLE="fork" TEXT="Продуктовая стратегия" /><node STYLE="fork" TEXT="Целеполагание" /><node STYLE="fork" TEXT="Управление роадмапом" /><node STYLE="fork" TEXT="Управление продуктовым бэклогом"><node LINK="https://github.com/tlbootcamp/tlroadmap/blob/master/skills/product-owner/backlog-generation.md" STYLE="fork" TEXT="Генерация элементов бэклога" /><node LINK="https://github.com/tlbootcamp/tlroadmap/blob/master/skills/product-owner/backlog-prioritization.md" STYLE="fork" TEXT="Приоритизация бэклога" /></node></node><node STYLE="fork" TEXT="Управление продуктом"><node STYLE="fork" TEXT="Запуск продукта" /><node STYLE="fork" TEXT="Ценообразование" /><node STYLE="fork" TEXT="Жизненный цикл фичей" /></node></node><node POSITION="right" STYLE="fork" TEXT="Integrator"><node LINK="https://github.com/tlbootcamp/tlroadmap/blob/master/skills/integrator/business-knowledge.md" STYLE="fork" TEXT="Знание бизнеса" /><node LINK="https://github.com/tlbootcamp/tlroadmap/blob/master/skills/integrator/corporate-culture.md" STYLE="fork" TEXT="Корпоративная культура" /><node LINK="https://github.com/tlbootcamp/tlroadmap/blob/master/skills/integrator/company-structure.md" STYLE="fork" TEXT="Структура компании" /></node><node POSITION="right" STYLE="fork" TEXT="Technical Lead"><node STYLE="fork" TEXT="Обеспечение качества продукта"><node LINK="https://github.com/tlbootcamp/tlroadmap/blob/master/skills/technical-lead/code-review.md" STYLE="fork" TEXT="Code Review" /><node STYLE="fork" TEXT="Тестирование"><node STYLE="fork" TEXT="Тестовая модель" /><node STYLE="fork" TEXT="Тест-планы" /><node LINK="https://github.com/tlbootcamp/tlroadmap/blob/master/skills/technical-lead/test-pyramid.md" STYLE="fork" TEXT="Пирамида тестирования" /><node STYLE="fork" TEXT="Оптимизация количества тестирования" /></node><node STYLE="fork" TEXT="Работа с багами" /><node LINK="https://github.com/tlbootcamp/tlroadmap/blob/master/skills/technical-lead/incident-management.md" STYLE="fork" TEXT="Управление инцидентами" /><node STYLE="fork" TEXT="Метрики и мониторинг" /><node LINK="https://github.com/tlbootcamp/tlroadmap/blob/master/skills/technical-lead/nfr.md" STYLE="fork" TEXT="Нефункциональные требования" /></node><node STYLE="fork" TEXT="Обеспечение технического качества"><node LINK="https://github.com/tlbootcamp/tlroadmap/blob/master/skills/technical-lead/unit-testing.md" STYLE="fork" TEXT="Unit-тестирование" /><node STYLE="fork" TEXT="Чистый код" /><node LINK="https://github.com/tlbootcamp/tlroadmap/blob/master/skills/technical-lead/refactoring.md" STYLE="fork" TEXT="Рефакторинг" /><node LINK="https://github.com/tlbootcamp/tlroadmap/blob/master/skills/technical-lead/technical-debt.md" STYLE="fork" TEXT="Управление техническим долгом" /></node><node STYLE="fork" TEXT="Знание технологий"><node LINK="https://github.com/tlbootcamp/tlroadmap/blob/master/skills/technical-lead/code.md" STYLE="fork" TEXT="Написание кода" /><node LINK="https://github.com/tlbootcamp/tlroadmap/blob/master/skills/technical-lead/stack-knowledge.md" STYLE="fork" TEXT="Знание технологического стека команды" /><node LINK="https://github.com/tlbootcamp/tlroadmap/blob/master/skills/technical-lead/stack-choice.md" STYLE="fork" TEXT="Выбор технологий и контроль их стека" /></node><node STYLE="fork" TEXT="Автоматизация цикла разработки"><node STYLE="fork" TEXT="Работа с VCS" /><node LINK="https://github.com/tlbootcamp/tlroadmap/blob/master/skills/technical-lead/ci.md" STYLE="fork" TEXT="CI" /><node STYLE="fork" TEXT="Автоматизация релизов" /></node><node STYLE="fork" TEXT="Управление знаниями"><node LINK="https://github.com/tlbootcamp/tlroadmap/blob/master/skills/technical-lead/knowledge-management.md" STYLE="fork" TEXT="Распространение знаний" /><node STYLE="fork" TEXT="Техническая документация" /></node><node STYLE="fork" TEXT="Архитектура"><node STYLE="fork" TEXT="Сбор технических требований" /><node STYLE="fork" TEXT="Проектирование" /><node STYLE="fork" TEXT="Архитектурные ревью" /><node STYLE="fork" TEXT="Эволюция" /></node><node STYLE="fork" TEXT="Capacity Management" /></node><node POSITION="right" STYLE="fork" TEXT="Administrator"><node STYLE="fork" TEXT="Построение цикла разработки"><node LINK="https://github.com/tlbootcamp/tlroadmap/blob/master/skills/administrator/task-inbox.md" STYLE="fork" TEXT="Получение задач" /><node STYLE="fork" TEXT="Разработка"><node STYLE="fork" TEXT="Конструирование методологии" /><node STYLE="fork" TEXT="Готовые подходы"><node LINK="https://github.com/tlbootcamp/tlroadmap/blob/master/skills/administrator/scrum.md" STYLE="fork" TEXT="Scrum" /><node STYLE="fork" TEXT="Lean" /></node></node><node STYLE="fork" TEXT="Выпуск задач"><node STYLE="fork" TEXT="Приёмка" /><node STYLE="fork" TEXT="Раскатка" /></node></node><node STYLE="fork" TEXT="Проектное управление"><node STYLE="fork" TEXT="PMBoK" /><node LINK="https://github.com/tlbootcamp/tlroadmap/blob/master/skills/administrator/pdca.md" STYLE="fork" TEXT="PDCA" /></node><node LINK="https://github.com/tlbootcamp/tlroadmap/blob/master/skills/administrator/stakeholding.md" STYLE="fork" TEXT="Стейкхолдинг" /></node></node></map>

diff --git a/README.md b/README.md
@@ -119,7 +119,7 @@
     - Тестирование
         - Тестовая модель
         - Тест-планы
-        - Пирамида тестирования
+        - [Пирамида тестирования](https://github.com/tlbootcamp/tlroadmap/blob/master/skills/technical-lead/test-pyramid.md)
         - Оптимизация количества тестирования
     - Работа с багами
     - [Управление инцидентами](https://github.com/tlbootcamp/tlroadmap/blob/master/skills/technical-lead/incident-management.md)
